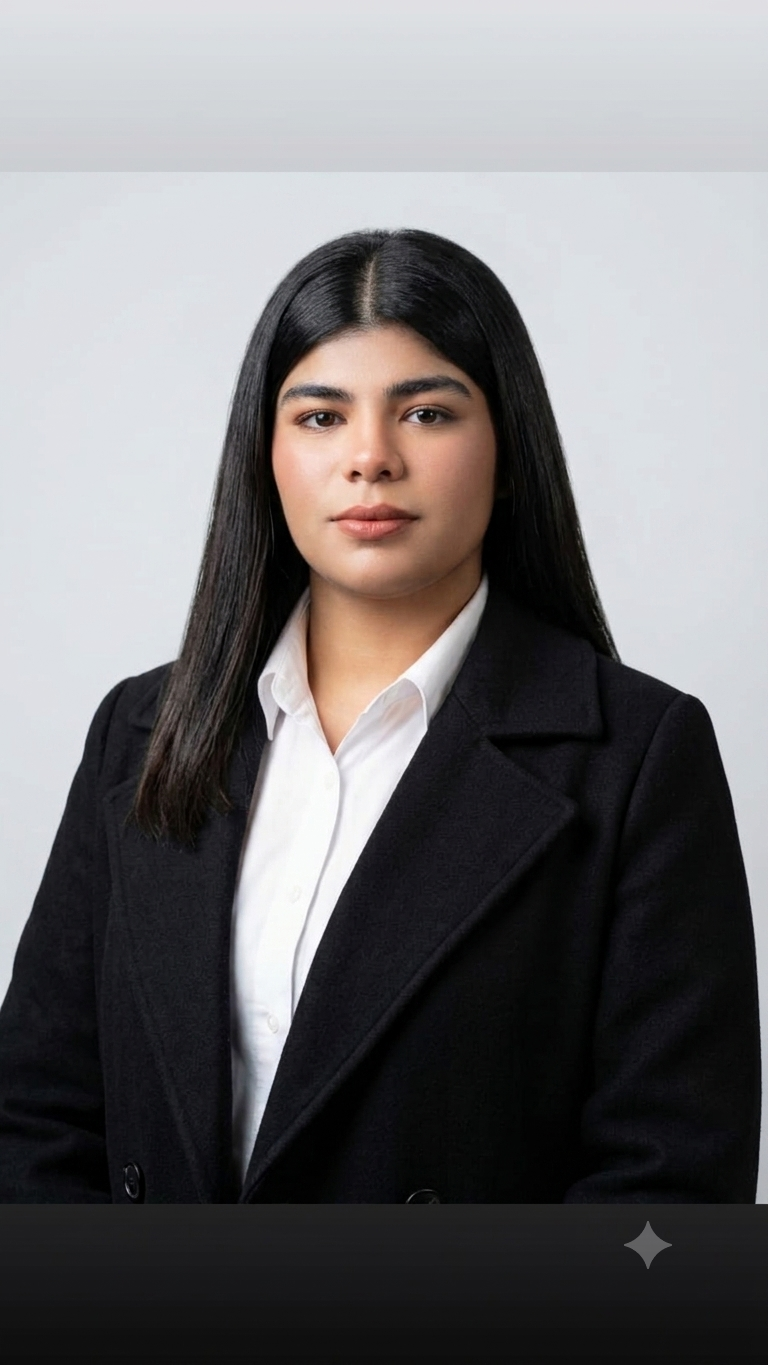
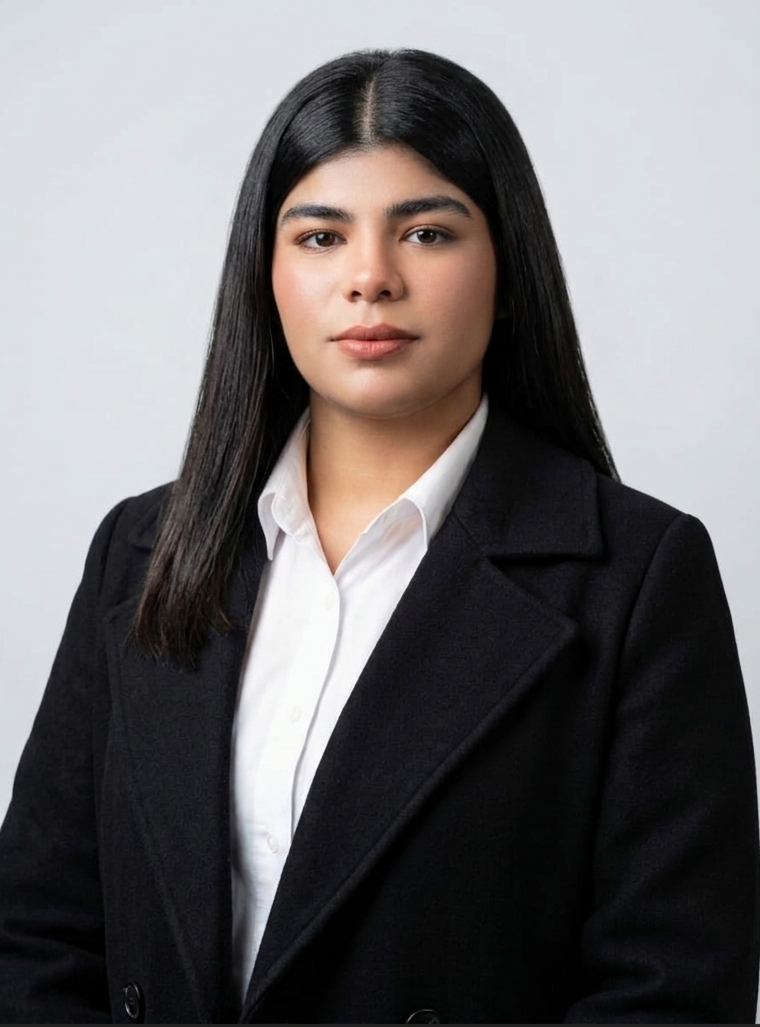
Portfolia

diff --git a/Protfolia/style.css b/Protfolia/style.css
@@ -46,3 +46,54 @@ section {
   color: white;
   font-weight: bold;
 }
+/* Home Section Layout */
+#home {
+  display: flex;
+  align-items: center; /* Text aur image ko vertically center align karega */
+  justify-content: space-between; /* Left par text aur right par image push karega */
+  gap: 40px; /* Dono ke beech clean spacing */
+  width: 90%;
+  max-width: 1100px;
+  margin: 0 auto;
+  padding: 60px 0;
+}
+
+/* Left Box (Text Area) */
+.home-text {
+  flex: 1; /* Bachi hui jagah space absorb kar lega */
+}
+
+.home-text h1 {
+  font-size: 42px;
+  margin: 8px 0;
+}
+
+.home-text .subtitle {
+  font-weight: bold;
+  margin-bottom: 6px;
+}
+
+.home-text .description {
+  color: #cccccc;
+  margin-bottom: 15px;
+}
+
+.home-links a {
+  color: #8b5cf6; /* Link purple color */
+  text-decoration: none;
+  margin-right: 15px;
+  font-weight: bold;
+}
+
+/* Right Box (Image Area) */
+.Myimage {
+  width: 380px; /* Perfect display size */
+  flex-shrink: 0; /* Image ko squeeze hone se rokega */
+}
+
+.Myimage img {
+  width: 100%;
+  height: auto;
+  display: block;
+  border-radius: 12px; /* Optional clean rounded borders */
+}

diff --git a/Protfolia/index.html b/Protfolia/index.html
@@ -32,8 +32,12 @@
         </p>
 
         <div class="home-links">
-          <a href="#skills">View Skills</a>
-          <a href="#contact">Lets talk</a>
+          <button onclick="skills">
+            <a href="#skills">View Skills</a>
+          </button>
+          <button onclick="contact">
+            <a href="#contact">Lets talk</a>
+          </button>
         </div>
       </div>
 
